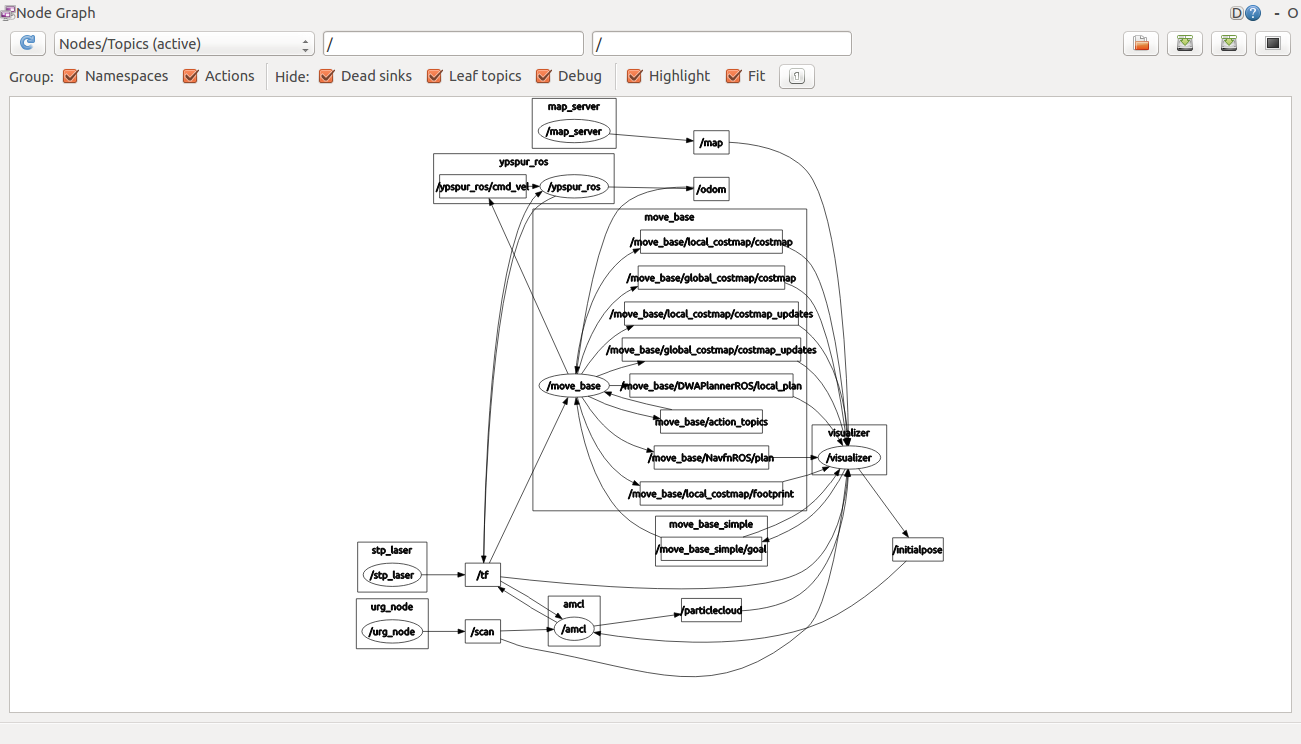
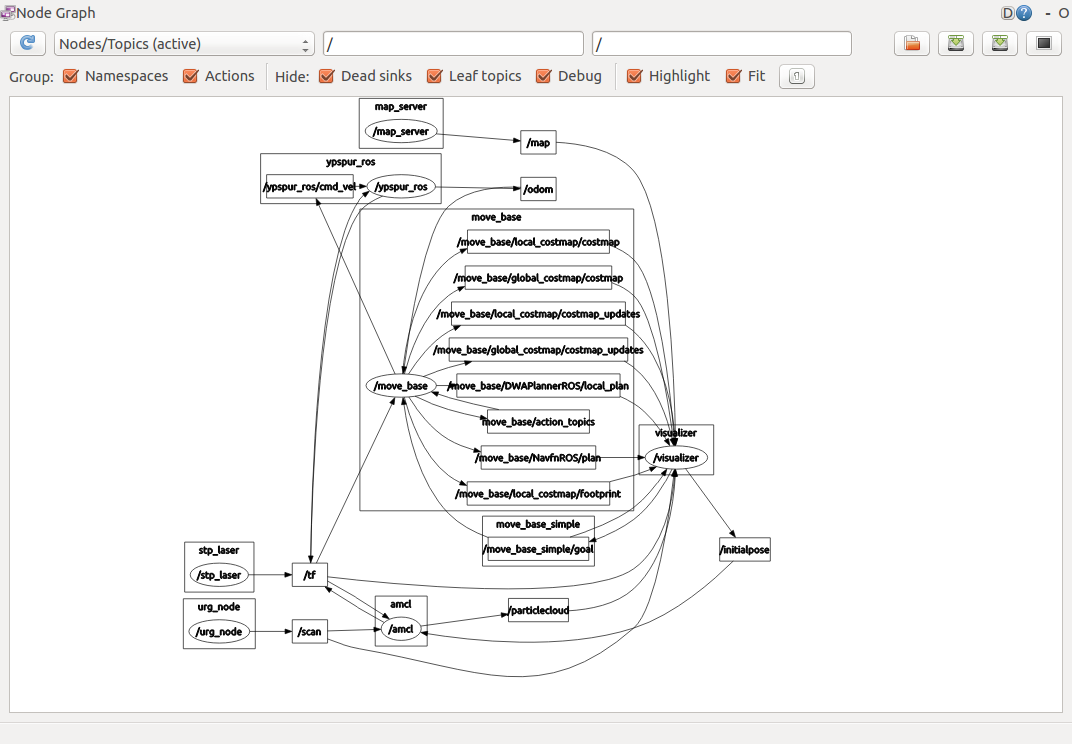
fixes descriptions

diff --git a/ros-basic.html b/ros-basic.html
@@ -159,7 +159,7 @@ int main(int argc, char *argv[])
 <pre>$ cd ~/catkin_ws/<div class="enter"></div>
 $ catkin_make<div class="enter"></div></pre>
 </div>
-<p>実行してみましょう。実行の際、ROSを通してノード同士がデータをやりとりするために、roscoreを起動しておく必要があります。2つの端末を開き、それぞれで以下を実行して下さい。</p>
+<p>実行してみましょう。実行の際、ROSを通してノード同士がデータをやりとりするために用いる、「roscore」を起動しておく必要があります。2つの端末を開き、それぞれで以下を実行して下さい。</p>
 <div class="source_code">
 <pre>$ roscore<div class="enter"></div></pre>
 </div>
@@ -167,7 +167,7 @@ $ catkin_make<div class="enter"></div></pre>
 <pre>$ rosrun rsj_robot_test rsj_robot_test_node<div class="enter"></div>
 [ INFO] [1466002781.136800000]: Hello ROS World!</pre>
 </div>
-<p>以上の手順で、ROSパッケージに含まれるノードのソースコードを編集し、ビルドして、実行できるようになりました。</p>
+<p>「Hello ROS World!」と表示されれば成功です。以上の手順で、ROSパッケージに含まれるノードのソースコードを編集し、ビルドして、実行できるようになりました。</p>
 
 </article>
 </section>
@@ -217,7 +217,7 @@ ros::Duration(0.5).sleep();</pre>
 $ catkin_make<div class="enter"></div></pre>
 </div>
 <p>この際、<span class="important">ビルドエラーが出ていないか、良く確認して下さい</span>。エラーが出ている場合は、ソースコードの該当箇所を確認・修正して下さい。</p>
-<p>実行の際、まずroscoreと、ypspur_rosを起動します。ypspur_rosの中では、ロボットの動作テストの際に使用した、ypspur-coordinatorが動いています。なお、roscoreは、前のものを実行し続けている場合は、そのままで使用できます。</p>
+<p>実行の際、まずroscoreと、ypspur_rosを起動します。ypspur_rosの中では、ロボットの動作テストの際に使用した、ypspur-coordinatorが動いています。なお、roscoreは、前のものを実行し続けている場合は、そのままで使用できます。コマンド入力の際は、タブ補完を活用しましょう。</p>
 <div class="source_code">
 <pre>$ roscore<div class="enter"></div></pre>
 </div>
@@ -272,7 +272,7 @@ Hello ROS World!
 }</pre>
 </div>
 <p>const nav_msgs::Odometry::ConstPtr は、const型(内容を書き換えられない)、nav_msgsパッケージに含まれる、Odometry型のメッセージの、const型ポインタを表しています。&amp;msgの&amp;は、参照型(内容を書き換えられるように変数を渡すことができる)という意味ですが、(const型なので)ここでは特に気にする必要はありません。</p>
-<p>cb_odom関数に、以下のコードを追加することで、受け取ったメッセージの中から、ロボットの並進速度を取り出して表示できます。</p>
+<p>cb_odom関数に、以下のコードを追加してみましょう。これにより、受け取ったメッセージの中から、ロボットの並進速度を取り出して表示できます。</p>
 <div class="source_code">
 <pre>ROS_INFO("vel %f", 
 	msg-&gt;twist.twist.linear.x);</pre>
@@ -367,7 +367,7 @@ vel: 0.0500
 vel: 0.0500
 </pre>
 </div>
-<p>ロボットのホイールが回転し、先ほど追加した走行指令の値と近い値が表示されれば、正しく動作しています。</p>
+<p>ロボットのホイールが回転し、先ほどの小課題で設定した走行指令の値と近い値が表示されれば、正しく動作しています。</p>
 
 <h3>小課題</h3>
 <p>同様に、ロボットの角速度を表示してみましょう。</p>
@@ -414,13 +414,13 @@ void mainloop()
 <p>先ほどと同様にビルドし、ypspur_rosとrsj_robot_test_nodeを起動して動作を確認します。</p>
 
 <h3>センシング結果で動作を変える</h3>
-<p>cb_odomで取得したオドメトリのデータを保存しておくように、以下のように変更してみましょう。</p>
+<p>cb_odomで取得したオドメトリのデータを保存しておくように、以下のように変更してみましょう。(<span class="added">赤線部分</span>を追加)</p>
 <div class="source_code">
 <pre>void cb_odom(const nav_msgs::Odometry::ConstPtr &amp;msg)
 {
 	ROS_INFO("vel %f", 
 		msg-&gt;twist.twist.linear.x);
-	odom = *msg;
+	<span class="added">odom = *msg;</span>
 }</pre>
 </div>
 <p>また、class rsj_robot_test_nodeの先頭に下記の変数定義を追加します。</p>
@@ -428,14 +428,16 @@ void mainloop()
 <pre>class rsj_robot_test_node
 {
 private:
-	nav_msgs::Odometry odom;
+	<span class="added">nav_msgs::Odometry odom;</span>
 </pre>
 </div>
-<p>また、odomの中で方位を表す、クオータニオンをコンストラクタ(rsj_robot_test_node()関数)の先頭で初期化しておきます。</p>
+<p>また、odomの中で方位を表す、クオータニオンをコンストラクタ(rsj_robot_test_node()関数)の最後で初期化しておきます。</p>
 <div class="source_code">
 <pre>rsj_robot_test_node():
 {
-	odom.pose.pose.orientation.w = 1.0;
+	<span class="comment">(略)</span>
+	<span class="added">odom.pose.pose.orientation.w = 1.0;</span>
+}
 </pre>
 </div>
 
@@ -477,7 +479,7 @@ void mainloop()
 
 
 <h3>小課題</h3>
-<p>1m前方に走行し、その後で帰ってくるコードを作成してみましょう。</p>
+<p>1m前方に走行し、その後で帰ってくるコードを作成してみましょう。(1m前方に走行し180度旋回して1m前方に走行するか、もしくは、1m前方に走行し1m後方に走行すればよい。)</p>
 <p>余裕があれば、四角形を描いて走行するコードを作成してみましょう。</p>
 
 </article>

diff --git a/ros-launch.html b/ros-launch.html
@@ -16,7 +16,7 @@
 <h2>roslaunch</h2>
 <article>
 <p>URGを使ったロボット制御では、端末を4つ起動して、それぞれroscoreとrosrunコマンドでノードを起動していました。複雑なロボットシステムではこれが、100個以上のノードになる場合もあり、手作業ではやっていられません。</p>
-<p>そこでROSには、launchファイルに、起動するノードやそのパラメータを書いておき、roslaunchコマンドで一括起動する方法が用意されています。QtCreator内で下記の操作を行い、launchファイルを追加してみましょう。</p>
+<p>そこでROSには、launchファイルに、起動するノードやそのパラメータを書いておき、roslaunchコマンドで一括起動する方法が用意されています。下記の操作を行い、launchファイルを追加してみましょう。</p>
 
 <ol>
 <li>rsj_robot_testパッケージに、launchディレクトリを作成
@@ -85,11 +85,12 @@
 <section>
 <h2>rqt_graph</h2>
 <article>
-<p>トピックとノードの接続状態を可視化することができます。ロボットとURGをPCに接続してrobot_test.launchを実行している状態で、下記コマンドを実行してみましょう。</p>
+<p>トピックとノードの接続状態を可視化することができます。ロボットとURGをPCに接続して、roslaunchの項で説明したようにrobot_test.launchを実行し、その状態で下記コマンドを実行してみましょう。</p>
 <div class="source_code">
 <pre>$ rqt_graph<div class="enter"></div></pre>
 </div>
 <p>以下の画像のように、ノードとトピックの接続グラフが表示されます。</p>
+<img src="pic/rqt_graph.png" class="width75" />
 
 </article>
 </section>
@@ -98,7 +99,7 @@
 <section>
 <h2>rostopic</h2>
 <article>
-<p>デバッグなどのため、ROSのトピックに流れているメッセージを確認したいとき、試しにメッセージを送信したいときに、コマンドラインのツールこれらの処理を行うことができます。</p>
+<p>デバッグなどのため、ROSのトピックに流れているメッセージを確認したいときや、試しにメッセージを送信したいときに、コマンドラインのツールでこれらの処理を行うことができます。</p>
 <ul>
 <li>メッセージをsubscribeする
 <div class="source_code">
@@ -127,7 +128,7 @@ angular:
 <section>
 <h2>rviz</h2>
 <article>
-<p>ROSでは、rvizという、データ可視化ツール(ビューワ)が提供されています。今回のセミナーの環境にも、インストールされており、URGのデータやオドメトリを表示することができます。ロボットとURGをPCに接続してrobot_test.launchを実行している状態で、下記コマンドを実行します。</p>
+<p>ROSでは、rvizという、データ可視化ツール(ビューワ)が提供されています。今回のセミナーの環境にも、インストールされており、URGのデータやオドメトリを表示することができます。ロボットとURGをPCに接続して、roslaunchの項で説明したようにrobot_test.launchを実行し、その状態で下記コマンドを実行してみましょう。</p>
 <div class="source_code">
 <pre>$ rosrun rviz rviz<div class="enter"></div></pre>
 </div>

diff --git a/lesson.html b/lesson.html
@@ -9,7 +9,7 @@
 <body>
 <header>
 <h1>演習課題</h1>
-<p>これまでにセミナーで取り扱った内容を試すために、いくつかの演習を用意しています。<span class="important">地図生成やnavigationパッケージを利用した自律ナビゲーションに興味があれば、課題Bから進めても構いません</span>。</p>
+<p>これまでにセミナーで取り扱った内容のおさらいに、いくつかの演習を用意しています。<span class="important">地図生成やnavigationパッケージを利用した自律ナビゲーションに興味があれば、課題Bから進めても構いません</span>。</p>
 </header>
 
 <section>
@@ -21,7 +21,7 @@
 <li>直進し、正面に壁が近づいたら停止する</li>
 <li>壁に沿って走行する 
 	<ul>
-	<li>ヒント：横方向の距離データが一定になるように、角速度にフィードバックする</li>
+	<li>ヒント：横方向の距離データが一定になるように、角速度にフィードバックする。</li>
 	</ul>
 </li>
 </ol>
@@ -31,7 +31,7 @@
 <li>曲がり角を含む壁に沿って走行する</li>
 <li>前を歩いている人について走行する
 	<ul>
-	<li>ヒント：正面方向にある物体の方向に向かうように角速度にフィードバックしつつ、距離を一定に保つように速度にフィードバックする</li>
+	<li>ヒント：正面方向にある物体の方向に向かうように角速度にフィードバックしつつ、距離を一定に保つように速度にフィードバックする。</li>
 	</ul>
 </li>
 </ol>
@@ -47,9 +47,9 @@
 <ol>
 <li>ナビゲーションパッケージを利用して、複数の目的地に順番に移動する
 	<ul>
-	<li>ヒント：/move_base_simple/goalトピックに、geometry_msgsパッケージのPoseStamped型のメッセージで、目標地点の位置姿勢を与えることで、ナビゲーションの指示を与えられる
+	<li>ヒント：/move_base_simple/goalトピックに、geometry_msgsパッケージのPoseStamped型のメッセージで、目標地点の位置姿勢を与えることで、ナビゲーションの指示を与えられる。
 		<ul>
-		<li>ヒントのヒント：PoseStamped型の中で姿勢はクオータニオンで与える、たとえば
+		<li>ヒントのヒント：PoseStamped型の中で姿勢はクオータニオンで与える。以下のコマンドで、Yaw角あらクオータニオンを生成できる。
 <div class="source_code">
 <pre>geometry_msgs::PoseStamped goal_pose;
 goal_pose.pose.orientation = tf::createQuaternionMsgFromYaw(3.14/*[rad]*/);</pre>
@@ -57,7 +57,7 @@ goal_pose.pose.orientation = tf::createQuaternionMsgFromYaw(3.14/*[rad]*/);</pre
 		</li>
 		</ul>
 	</li>
-	<li>ヒント：自己位置推定結果の座標は、tf::TransformListenerを利用する
+	<li>ヒント：自己位置推定結果の座標は、tf::TransformListenerを利用する。
 <div class="source_code">
 <pre>// コードの先頭
 #include &lt;tf/transform_listener.h&gt;

diff --git a/whats_next.html b/whats_next.html
@@ -15,8 +15,8 @@
 <section>
 <h2>tf</h2>
 <article>
-<p>ROSでは、tfと呼ばれる、座標変換(transformation)ライブラリが提供されています。tfを用いると、ロボット上に任意の位置姿勢で搭載されているセンサデータの座標を、ロボット座標系や、地図座標系などの任意の座標系に、簡単に座標変換することができます。また、ロボットの座標を、地図座標系で取得するといった処理もサポートされています。</p>
-<p>演習課題Bで紹介したようなロボット位置の取得や、センサデータの座標変換に使用することができます。</p>
+<p>ROSでは、tfと呼ばれる、座標変換(transformation)ライブラリが提供されており、広く使われています。tfを用いると、ロボット上に任意の位置姿勢で搭載されているセンサデータの座標を、ロボット座標系や、地図座標系などの任意の座標系に、簡単に座標変換することができます。また、ロボットの座標を、地図座標系で取得するといった処理もサポートされています。</p>
+<p>たとえば、演習課題Bで紹介したようなロボット位置の取得や、センサデータの座標変換に使用することができます。</p>
 
 </article>
 </section>
@@ -56,7 +56,7 @@
 <li>複雑なプログラムに多くの変更を加えたい
 	<ul><li>試行錯誤を繰り返し、部分的に元に戻したい</li></ul>
 </li>
-<li>個人用・職場用・ロボット用など複数のコンピュータでプログラムを管理したい
+<li>デスクトップPC、ノートPC、ロボット搭載PCなど複数のコンピュータでプログラムを管理したい
 	<ul><li>ソースコードの同期を取りたい</li></ul>
 </li>
 <li>複数人で一つのコードを編集したい
@@ -68,7 +68,7 @@
 <pre>$ cd ~/catkin_ws/src/rsj_seminar_navigation/<div class="enter"></div>
 $ git log<div class="enter"></div></pre>
 </div>
-<p>いくつかの変更履歴の情報が表示されます。この中で、「enlarges costmap size」が具体的にどのような変更だったのか、確認します。</p>
+<p>いくつかの変更履歴の情報が表示されます。この中で、「enlarges costmap size」と説明が付いている変更が具体的にどのような変更だったのか、確認します。</p>
 <div class="source_code">
 <pre>$ git diff dc4d4f dc4d4f^<div class="enter"></div></pre>
 </div>

diff --git a/ros-urg.html b/ros-urg.html
@@ -42,7 +42,7 @@
 <pre>class rsj_robot_test_node
 {
 private:
-<span class="comment">(略)</span>
+	<span class="comment">(略)</span>
 	ros::Subscriber sub_odom;
 	<span class="added">ros::Subscriber sub_scan;</span></pre>
 </div>
@@ -52,7 +52,6 @@ private:
 <div class="source_code">
 <pre>rsj_robot_test_node()
 {
-<span class="comment">(略)</span>
 	ros::NodeHandle nh("~");
 	pub_twist = nh.advertise&lt;geometry_msgs::Twist&gt;(
 			"/ypspur_ros/cmd_vel", 5);
@@ -60,10 +59,10 @@ private:
 			&amp;rsj_robot_test_node::cb_odom, this);
 	<span class="added">sub_scan = nh.subscribe("/scan", 5, </span>
 			<span class="added">&amp;rsj_robot_test_node::cb_scan, this);</span>
-}</pre>
+</pre>
 </div>
 
-<p>更に、rsj_robot_test_nodeクラスに、URG用のコールバック関数を追加します。(cb_odomの前後どちらかの位置)</p>
+<p>更に、rsj_robot_test_nodeクラスに、URG用のコールバック関数を追加します。(cb_odomの後の位置など)</p>
 
 <div class="source_code">
 <pre>void cb_scan(const sensor_msgs::LaserScan::ConstPtr &amp;msg)
@@ -79,7 +78,8 @@ private:
 	}
 }</pre>
 </div>
-<p>このコールバック関数中では、距離データ配列のうち、配列の中央の距離を表示しています。すなわち、URGの場合、正面方向の距離データ(m単位)が表示されます。また、msg-&lt;rangesの値がmsg-&gt;range_minより小さい場合は、測定エラー(遠すぎて測定できない、など)を意味しています。なお、msg-&gt;ranges[0]はmsg-&gt;angle_min方向(rad単位)、msg-&gt;ranges[msg-&gt;size()-1]はmsg-&gt;angle_max方向(rad単位)を表します。</p>
+<p>このコールバック関数中では、距離データ配列のうち、配列の中央の距離を表示しています。すなわち、URGの場合、正面方向の距離データ(m単位)が表示されます。また、msg-&gt;rangesの値がmsg-&gt;range_minより小さい場合は、測定エラー(遠すぎて測定できない、など)を意味しています。なお、msg-&gt;ranges[0]はmsg-&gt;angle_min方向(rad単位)、msg-&gt;ranges[msg-&gt;size()-1]はmsg-&gt;angle_max方向(rad単位)を表します。</p>
+<img src="pic/urg_number.png" class="width50" />
 
 
 <h3>ビルド＆実行</h3>

diff --git a/ros-navigation.html b/ros-navigation.html
@@ -72,7 +72,7 @@ $ rosrun map_server map_saver<div class="enter"></div>
 <img src="pic/mapping_saved_dir.png" class="width75" />
 <p>map.yamlをダブルクリックして開くと、地図の解像度や原点の情報が書かれています。また、map.pgmを開くと、地図データが画像ファイルとして保存されていることがわかります。</p>
 <img src="pic/mapping_pgm.png" class="width50" />
-<p>地図の画像ファイルが正しく出力できていることを確認したら、roslaunchを実行した端末で、<span class="keybox">Ctrl+c</span>を押して終了します。</p>
+<p>地図の画像ファイルが正しく出力できていることを確認したら、roslaunchを実行した端末のウインドウを選択して、<span class="keybox">Ctrl+c</span>を押して終了します。</p>
 
 </article>
 </section>

diff --git a/linux.html b/linux.html
@@ -67,7 +67,8 @@ $ ls<div class="enter"></div>
 
 
 <h3>タブ補完</h3>
-<p>Linuxの端末でコマンドを入力する際、途中まで入力した後に<span class="keybox">Tab</span>キーを押すと、自動的に続きを入力してくれます。<div class="source_code">
+<p>Linuxの端末でコマンドを入力する際、途中まで入力した後に<span class="keybox">Tab</span>キーを押すと、可能な場合には、自動的に続きを入力してくれます。続きが出てこない場合は、もう少し先まで入力してから再度トライしましょう。
+<div class="source_code">
 <pre>$ cd ~/c<span class="keybox">Tab</span>
 $ cd catkin_ws/
 </pre>

diff --git a/style.css b/style.css
@@ -317,7 +317,7 @@ hr { color: #999999; padding: 0; height: 1px; }
 	font-size     : 0.9em;
 	line-height   : 18px;
 	margin        : 1px;
-	padding       : 0;
+	padding       : 1px;
 }
 
 .figure{
